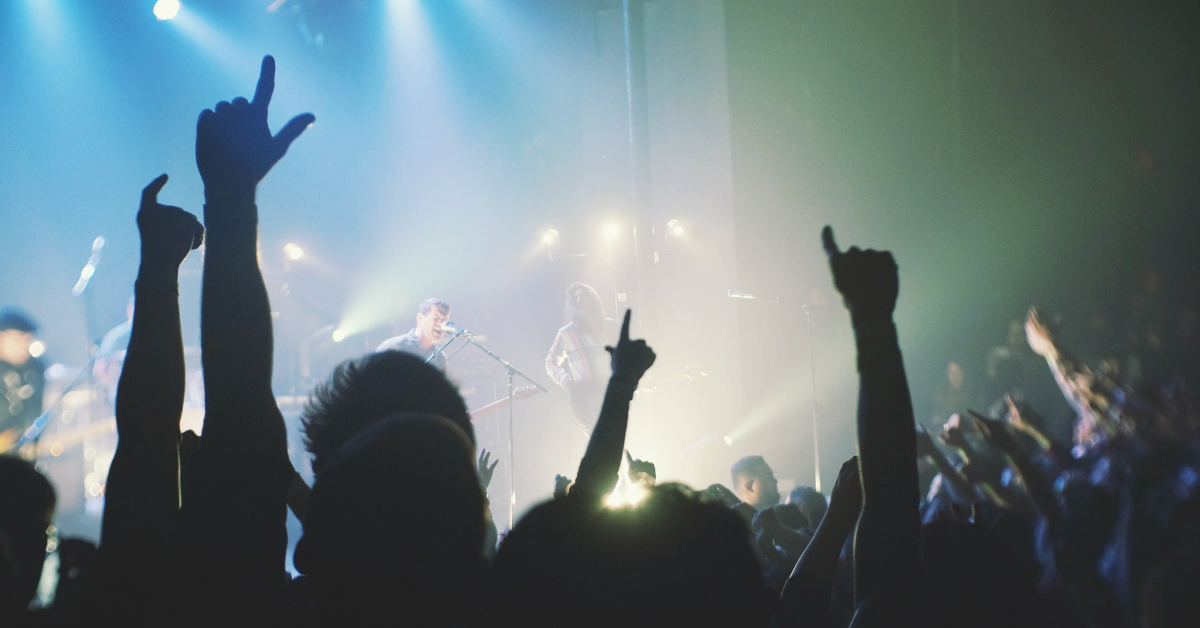
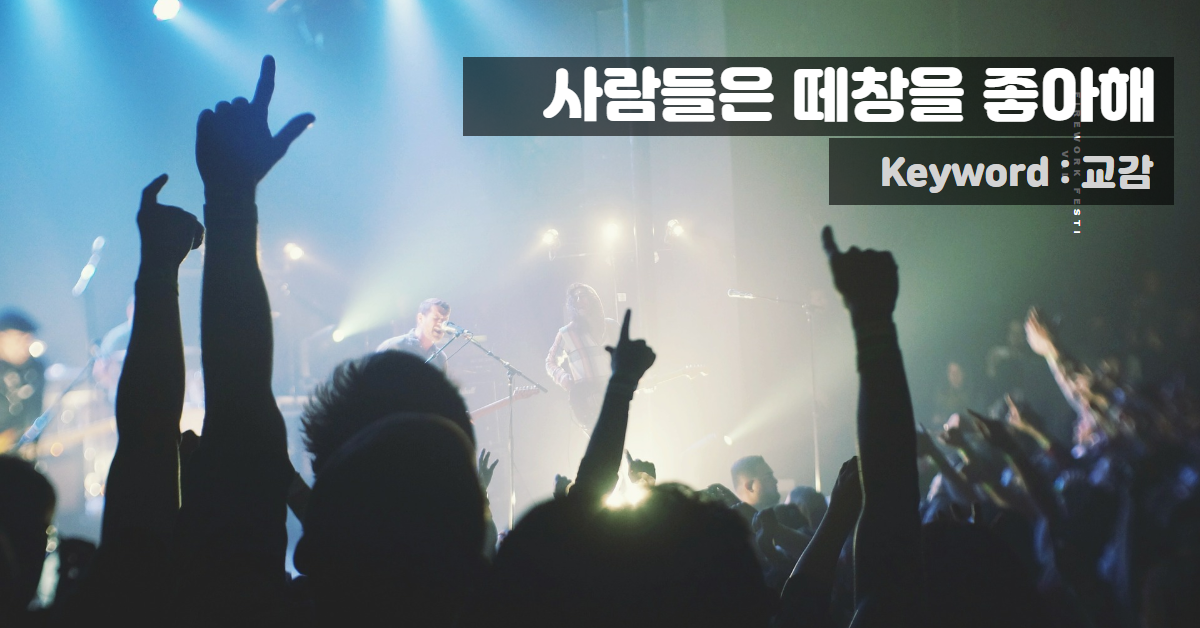
썸네일변경

Changed region(s): [[0.37, 0.0908, 0.9867, 0.3631]]

diff --git a/_includes/link.html b/_includes/link.html
@@ -1,2 +1,4 @@
-<a href="https://namimov.com/">마케팅</a>
-<a href="https://namimov.com/">페이스북</a>
+<a href="https://namimov.com/">Market Trend</a>
+<a href="https://namimov.com/">Market Keyword</a>
+<a href="https://namimov.com/">My job</a>
+<a href="https://namimov.com/">My interest</a>

diff --git a/about.md b/about.md
@@ -1,6 +1,6 @@
 ---
 layout: page
-title: About Emerald
+title: About Nami's 키워드세상
 ---
 ## About
 Emerald is a minimal theme created for Jekyll. The main purpose of Emerald is to provide a clear theme for those who want a blog ready to use, focused on the content and mobile-first.
@@ -14,7 +14,7 @@ Emerald may be installed by simply downloading the .zip folder from the [reposit
 
 After extracting the content from the folder into the selected directory, you can type ``jekyll serve`` from the terminal, than open your browser to ``0.0.0.0:4000/emerald/`` and you will find it there.
 
-Additionally it is possible to fork the repository and use Github Pages as hosting. By following this way it will be enough to change the ``baseurl`` value into the ``_config.yml`` file, with the directory name of your project (for example /blog) or simply with a "/" (slash) if you want install Emerald in the root. 
+Additionally it is possible to fork the repository and use Github Pages as hosting. By following this way it will be enough to change the ``baseurl`` value into the ``_config.yml`` file, with the directory name of your project (for example /blog) or simply with a "/" (slash) if you want install Emerald in the root.
 
 Last but not least: the [Jekyll documentation](http://jekyllrb.com) is the best starting point!
 
